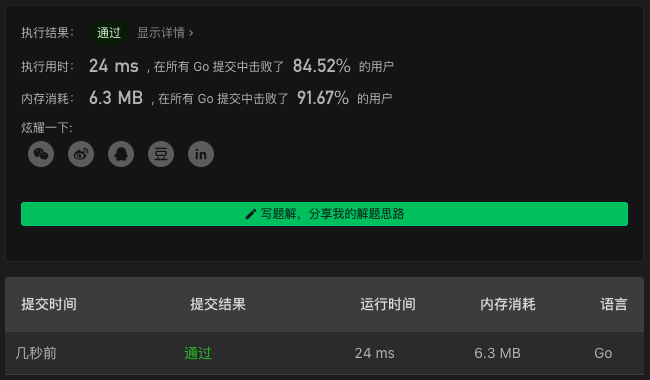
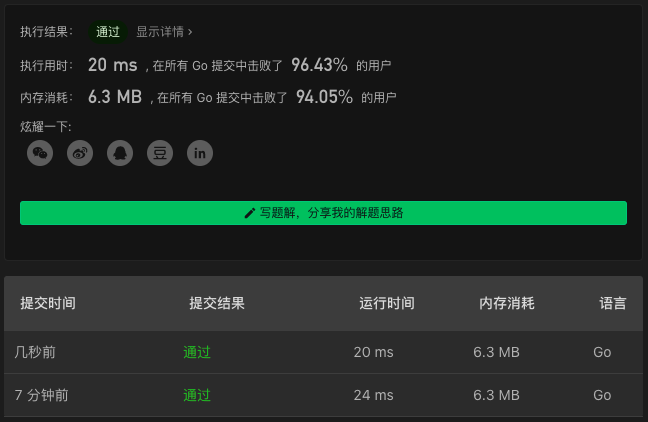
817. Linked List Components

diff --git a/817. Linked List Components.md b/817. Linked List Components.md
@@ -21,18 +21,14 @@ func numComponents(head *ListNode, G []int) int {
         gs[g] = struct{}{}
     }
 
-    nComp := 0
+    nComp, isAdjacent := 0, false
     for p := head; p != nil; p = p.Next {
-        _, ok := gs[p.Val]
-        if !ok { continue }
-
-        nComp++
-        for p = p.Next; p != nil; p = p.Next {
-            if _, ok := gs[p.Val]; !ok {
-                break
-            }
+        if _, ok := gs[p.Val]; !ok {
+            isAdjacent = false
+        } else if !isAdjacent {
+            isAdjacent = true
+            nComp++
         }
-        if p == nil { break }
     }
     return nComp
 }
